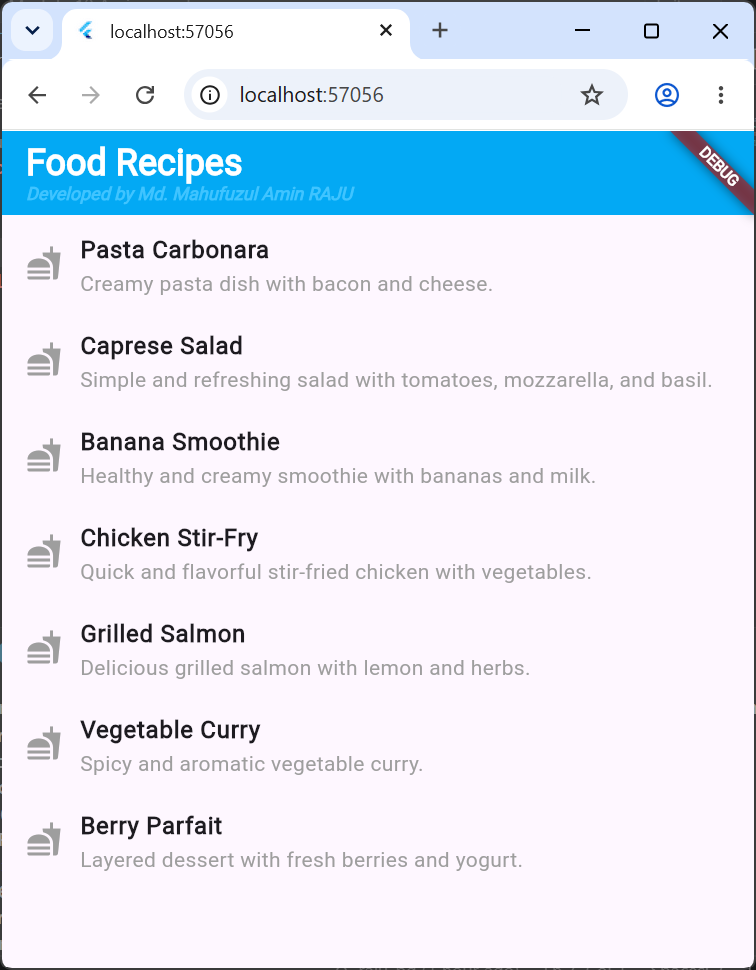
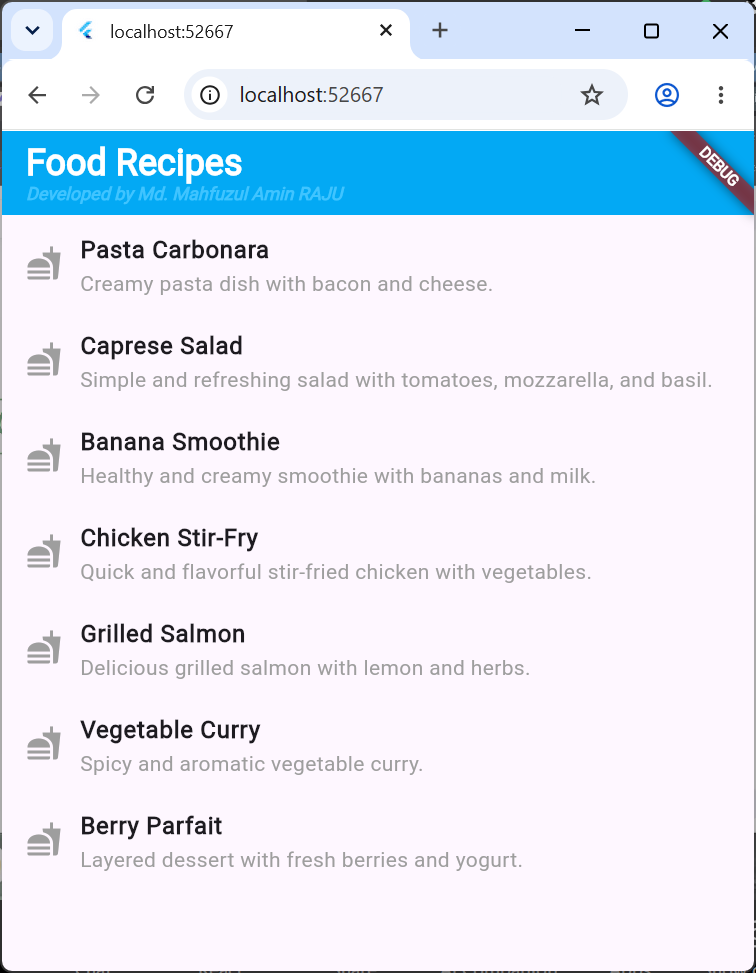
added the screenshort section to readme.md

diff --git a/lib/RecipeListPage.dart b/lib/RecipeListPage.dart
@@ -14,7 +14,7 @@ class RecipeListPage extends StatelessWidget {
           crossAxisAlignment: CrossAxisAlignment.start,
           children: const [
              Text('Food Recipes'),
-              Text('Developed by Md. Mahufuzul Amin RAJU', style: TextStyle(color: Colors.lightBlueAccent,fontSize: 12, fontStyle: FontStyle.italic)),
+              Text('Developed by Md. Mahfuzul Amin RAJU', style: TextStyle(color: Colors.lightBlueAccent,fontSize: 12, fontStyle: FontStyle.italic)),
           ],
         ),
         titleTextStyle: TextStyle(color: Colors.white, fontSize: 24, fontWeight: FontWeight.bold),
